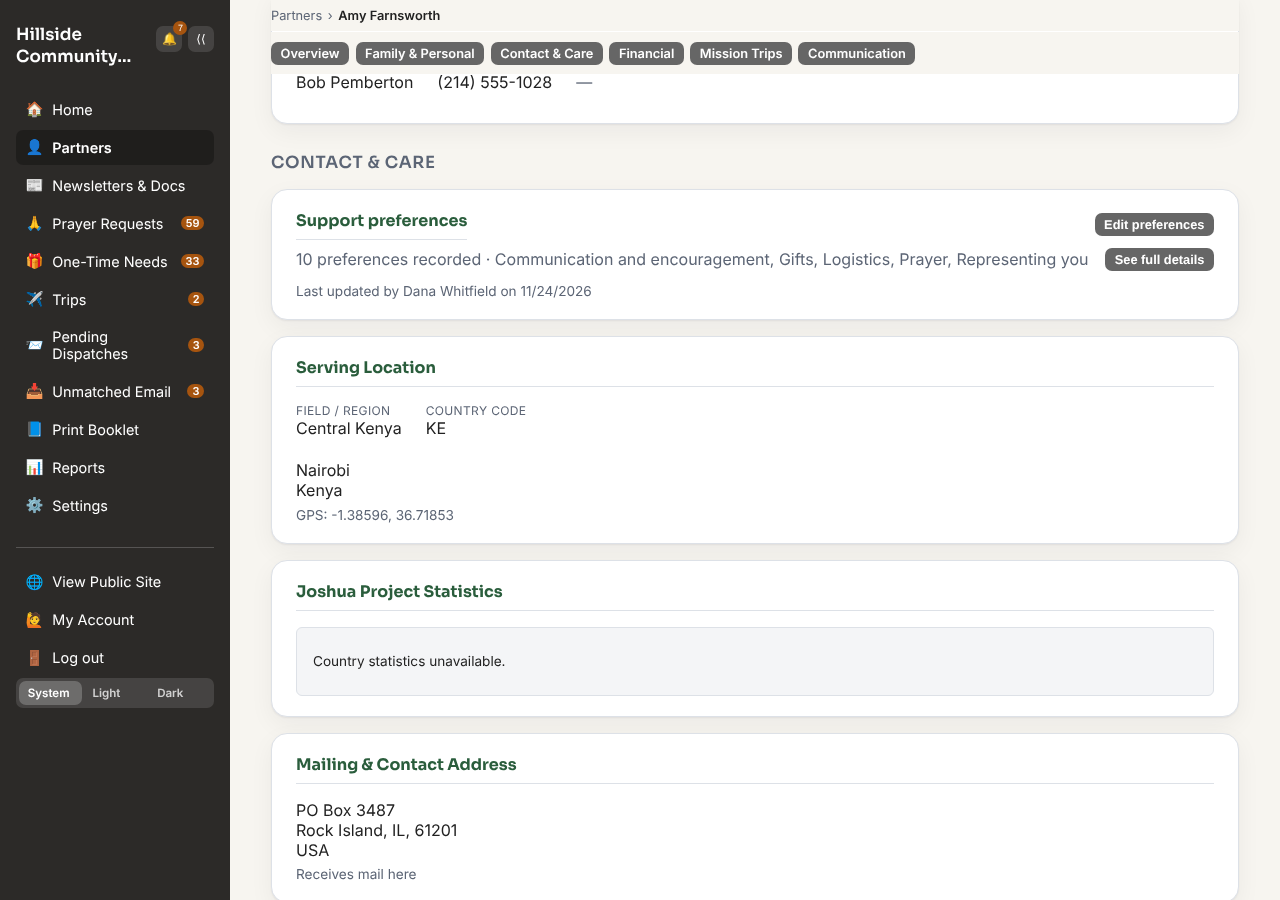
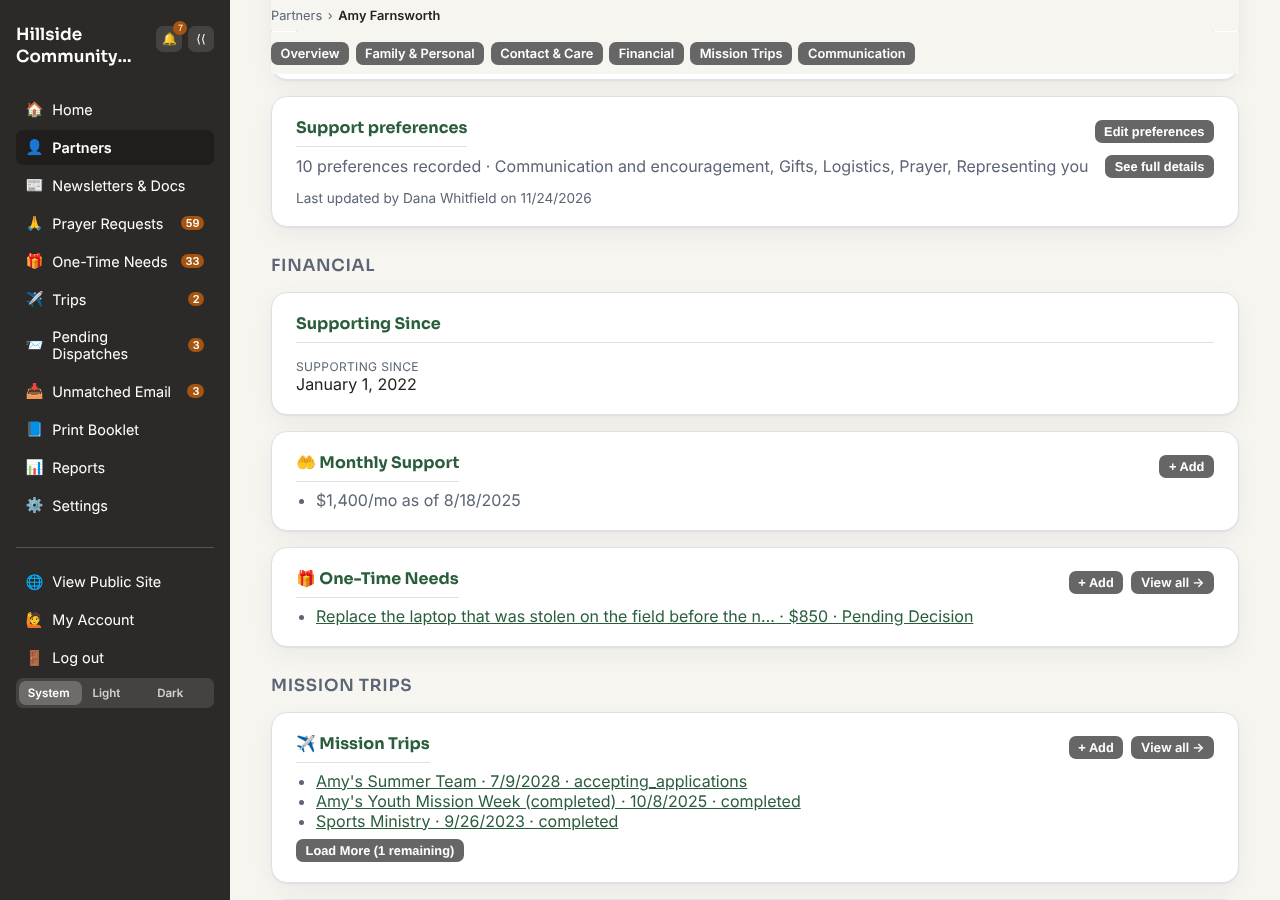
Partner page: Support preferences at the end of Contact & Care
Claude-Session: https://claude.ai/code/session_01MmRKDYXLtPvHu3ZZXFwPQ9

diff --git a/frontend/src/pages/AdminPartnerDetail.jsx b/frontend/src/pages/AdminPartnerDetail.jsx
@@ -1050,10 +1050,6 @@ export default function AdminPartnerDetail() {
         <div className="admin-section-group" id="section-location">
           <h2 className="admin-group-heading">Contact &amp; Care</h2>
 
-          {enabledFeatures.supportPreferences && enabledFeatures.careTeam && (
-            <SupportPreferencesCard partnerId={p.id} isAdmin={isAdmin} />
-          )}
-
           <EditableSection
             title="Serving Location"
             canEdit={canEdit}
@@ -1372,6 +1368,10 @@ export default function AdminPartnerDetail() {
               linkCrud.handleDelete(l, (item) => `Delete the ${linkTypeLabel(item.type)} link?`)
             }
           />
+
+          {enabledFeatures.supportPreferences && enabledFeatures.careTeam && (
+            <SupportPreferencesCard partnerId={p.id} isAdmin={isAdmin} />
+          )}
         </div>
 
         {((!isGuest && enabledFeatures.monthlySupport) ||

diff --git a/USER_GUIDE.md b/USER_GUIDE.md
@@ -986,7 +986,7 @@ The app never contacts a partner on its own — a person always does. If you're 
 
 ### Support preferences
 
-With **Support preferences** turned on in [Enabled Features](ADMIN_GUIDE.md#feature-toggles) (it needs [Care teams](#care-teams)), each partner's page gets a **Support preferences** card, at the top of the **Contact & Care** section (jump bar): the ways your church and their care team can support them, and which of them this partner has asked for. The card stays compact (how many are recorded, and which groups); **See full details** opens everything, with their notes.
+With **Support preferences** turned on in [Enabled Features](ADMIN_GUIDE.md#feature-toggles) (it needs [Care teams](#care-teams)), each partner's page gets a **Support preferences** card, at the bottom of the **Contact & Care** section (jump bar): the ways your church and their care team can support them, and which of them this partner has asked for. The card stays compact (how many are recorded, and which groups); **See full details** opens everything, with their notes.
 
 - **The menu is your church's.** An admin edits it under **Settings → Support Preferences**: options are put in groups (rename a group any time), and each is something you **offer** (tick it if wanted), a **pick one** or **pick any** question (with an optional "something else" box), or a **free-text** question. From an empty menu, **Add an example set** gives a starting list (housing, transportation, speaking about the partner, prayer, care packages, how to send gifts and so on) to edit or delete. **Retire** an option to stop offering it while keeping the answers already given, or **Delete** it to remove it and those answers.
 - **Record a partner's choices** with **+ Record preferences** (or **Edit preferences**) on their page, after a conversation: tick what they want, pick their answers, add a note. One set per partner, so a couple or family shares it. Admins, editors and a guest on that partner's care team can record it; a viewer can read it. A trip leader never sees it.

diff --git a/CHANGELOG.md b/CHANGELOG.md
@@ -24,7 +24,7 @@ see [UPGRADING.md](UPGRADING.md) for the actual update steps.
 
 - **Support preferences take less room.** The card on a partner's page is one line (how many are recorded, and which groups) with **See full details** opening everything in a popup.
 - **No more silent key-date reminders.** Care Team Settings warns when no default lead is set, and a partner's care team line tells every staff member where reminders go until a team is set.
-- **The top of a partner's page is shorter.** The care team is now one line on the Contact card ("Care team: Pat (lead), Casey", with Edit team or + Assign team), and Support preferences now sits at the top of the **Contact & Care** section (formerly Location & Contact), which has its own jump-bar button.
+- **The top of a partner's page is shorter.** The care team is now one line on the Contact card ("Care team: Pat (lead), Casey", with Edit team or + Assign team), and Support preferences now sits at the bottom of the **Contact & Care** section (formerly Location & Contact), which has its own jump-bar button.
 - **Visitors can choose Light or Dark on the public site** with a small switch in the header; it follows their device unless they pick one.
 - **More records carry a created date ([#383](https://github.com/neckermann/missions-partner-tracker/issues/383)).** A partner's addresses and sending party, a trip's budget lines and flight segments, and application questions now record when they were added (trips and applications already did).
 - **"Forgot your password?" on the sign-in page.** When the site can send email, anyone can ask for a link to choose a new password. The link works once and lasts an hour, a reset signs the account out everywhere else, and the reply is the same whether or not the address has an account (at most one email a minute per account). It reuses the setup-link machinery, so no database change. Not offered while email is off, on a demo, or with passwordless sign-in on.
